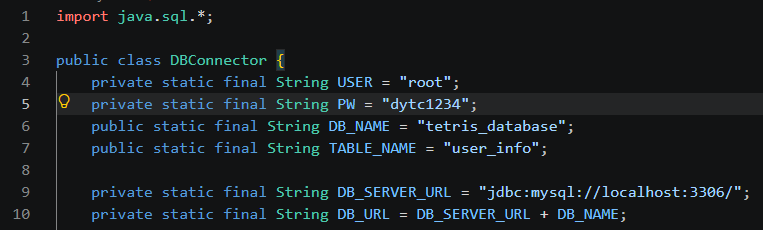
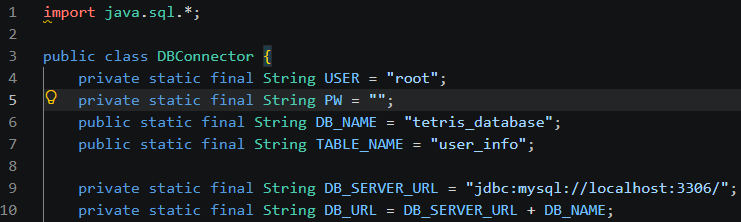
README.md Update

diff --git a/TetrisServer/DBConnector.java b/TetrisServer/DBConnector.java
@@ -2,7 +2,7 @@ import java.sql.*;
 
 public class DBConnector {   
     private static final String USER = "root";
-    private static final String PW = "dytc1234";
+    private static final String PW = "";
     public static final String DB_NAME = "tetris_database";
     public static final String TABLE_NAME = "user_info";
 

diff --git a/README.md b/README.md
@@ -23,67 +23,89 @@
 
 본문에서 설명하는 설치 및 실행 방법은 다음과 같은 사용자 환경을 요구합니다.<br>
 
-**·** Java가 설치된 환경<br>
-**·** MySQL이 설치된 환경<br>
+**.** Windows 환경<br>
+**·** JDK가 설치된 환경<br>
+**·** MySQL이 설치되어 실행 중인 환경<br>
+
+설명에 앞서 해당 프로그램은 클라이언트와 서버는 같은 PC에서 실행해야 합니다.
 
 ---
 <br>
 
-1\. `TetrisClient/src` 폴더와 `TetrisServer` 폴더를 각각 다운로드합니다. 
+1\. 프로젝트 폴더 다운로드
 
 \- git이 설치된 환경에서는 다음 명령어를 이용하여 다운로드 할 수 있습니다.<br>
 
-```bash
+```cmd
 git clone --depth 1 https://github.com/CodingDooPal/Capstone_Tetris.git
 ```
 
-\- 만약 git이 설치된 환경이 아니거나 그냥 명령어를 치기가 귀찮다면 아래 사이트에 들어가면 바로 다운로드가 됩니다. 만약 안 된다면 직접 다운로드 버튼을 누르세요.<br>
+\- 만약 git이 설치된 환경이 아니라면 저장소 페이지의 `Code -> Download ZIP`을 하면 다운로드가 가능합니다.
 
-**·** [Down Git 이동](https://downgit.github.io/#/home?url=https:%2F%2Fgithub.com%2FCodingDooPal%2FCapstone_Tetris%2Ftree%2Fmain)<br>
+---
 
-2\. 다운로드 받은 폴더의 다음 경로로 들어가 `DBConnector.java`라는 이름의 파일을 엽니다.
+2\. 데이터베이스 연결 설정
 
-\- 파일 경로<br>
-`Capstone_Tetris\TetrisServer\DBConnector.java`
+다운로드 받은 폴더의 다음 경로로 들어가 `DBConnector.java`라는 이름의 파일을 엽니다.
+
+`Capstone_Tetris\TetrisServer\DBConnector.java` 파일을 엽니다.
 
 ![DBConnector.png](DBConnector.png)<br>
 
-5행에 위치한 PW 변수를 자신이 설정한 MySQL ROOT 비밀번호로 변경 후 저장합니다.<br>
-+) 추가적으로 MySQL이 3306이 아닌 다른 PORT를 사용 중이라면 DB_SERVER_URL 변수에서 PORT 번호를 변경하면 됩니다.
+- `PW` 변수에 자신의 MySQL ROOT 패스워드를 입력하시면 됩니다.
+- 추가적으로 MySQL이 3306이 아닌 다른 PORT를 사용 중이라면 `DB_SERVER_URL` 변수에서 PORT 번호를 변경하면 됩니다.
 
-3\. cmd에서 다운로드 받은 TetrisServer 폴더의 경로로 이동합니다. 이후 아래의 명령어를 입력하여 서버를 컴파일 후 실행할 수 있습니다.<br>
++) 수정된 코드를(비밀번호가 노출된 채로) 다른 곳에 올라가지 않도록 주의하세요.
+
+---
+
+3\. 서버 실행
+
+cmd에서 다운로드 받은 TetrisServer 폴더의 경로로 이동합니다. 이후 아래의 명령어를 입력하여 서버를 컴파일 후 실행할 수 있습니다.<br>
 
 \- 폴더 경로<br>
 `Capstone_Tetris\TetrisServer>`
 
 \- 서버 컴파일 및 실행 명령어
 
-```bash
-# 컴파일 명령어
+```cmd
+:: 컴파일 명령어
 javac -cp ".;lib/mysql-connector-j-26.7.0.jar" *.java
 
-# 실행 명령어
+:: 실행 명령어
 java -cp ".;lib/mysql-connector-j-26.7.0.jar" TetrisServer
 ```
 
-4\. 다른 cmd 창에서 다운로드 받은 TetrisClient폴더의 .\src 경로로 이동합니다. 이후 아래의 명령어를 입력하여 클라이언트를 컴파일 후 실행할 수 있습니다.
+---
+
+4\. 클라이언트 실행
+
+해당 과정은 서버가 실행된 상태에서 진행합니다.
+
+다른 cmd 창에서 다운로드 받은 TetrisClient폴더의 .\src 경로로 이동합니다. 이후 아래의 명령어를 입력하여 클라이언트를 컴파일 후 실행할 수 있습니다.
 
 \- 폴더 경로<br>
 `Capstone_Tetris\TetrisClient\src>`
 
 \- 클라이언트 컴파일 및 실행 명령어
 
-```bash
-# 컴파일 명령어
+```cmd
+:: 컴파일 명령어
 javac *.java
 
-# 실행 명령어
+:: 실행 명령어
 java TetrisClientMain
 ```
 
-5\. 마지막으로 회원가입 후 로그인을 진행하면 됩니다. 회원 정보는 localhost에 위치한 MySQL 서버에 저장이 됩니다. ~(어차피 회원가입 과정에서 실제 개인정보는 필요 없다.)~
+---
 
+5\. 회원가입 후 로그인
 
+마지막으로 회원가입 후 로그인을 진행하면 됩니다. 회원 정보는 localhost에 위치한 MySQL 서버에 저장이 됩니다. 또한 회원가입 과정에서 개인정보는 전혀 사용하지 않기 때문에 부담없이 진행하시면 됩니다.
+
+6\. 실행이 안 될 때
+
+확인해야 할 거 적어야 됨.
 
 
 
